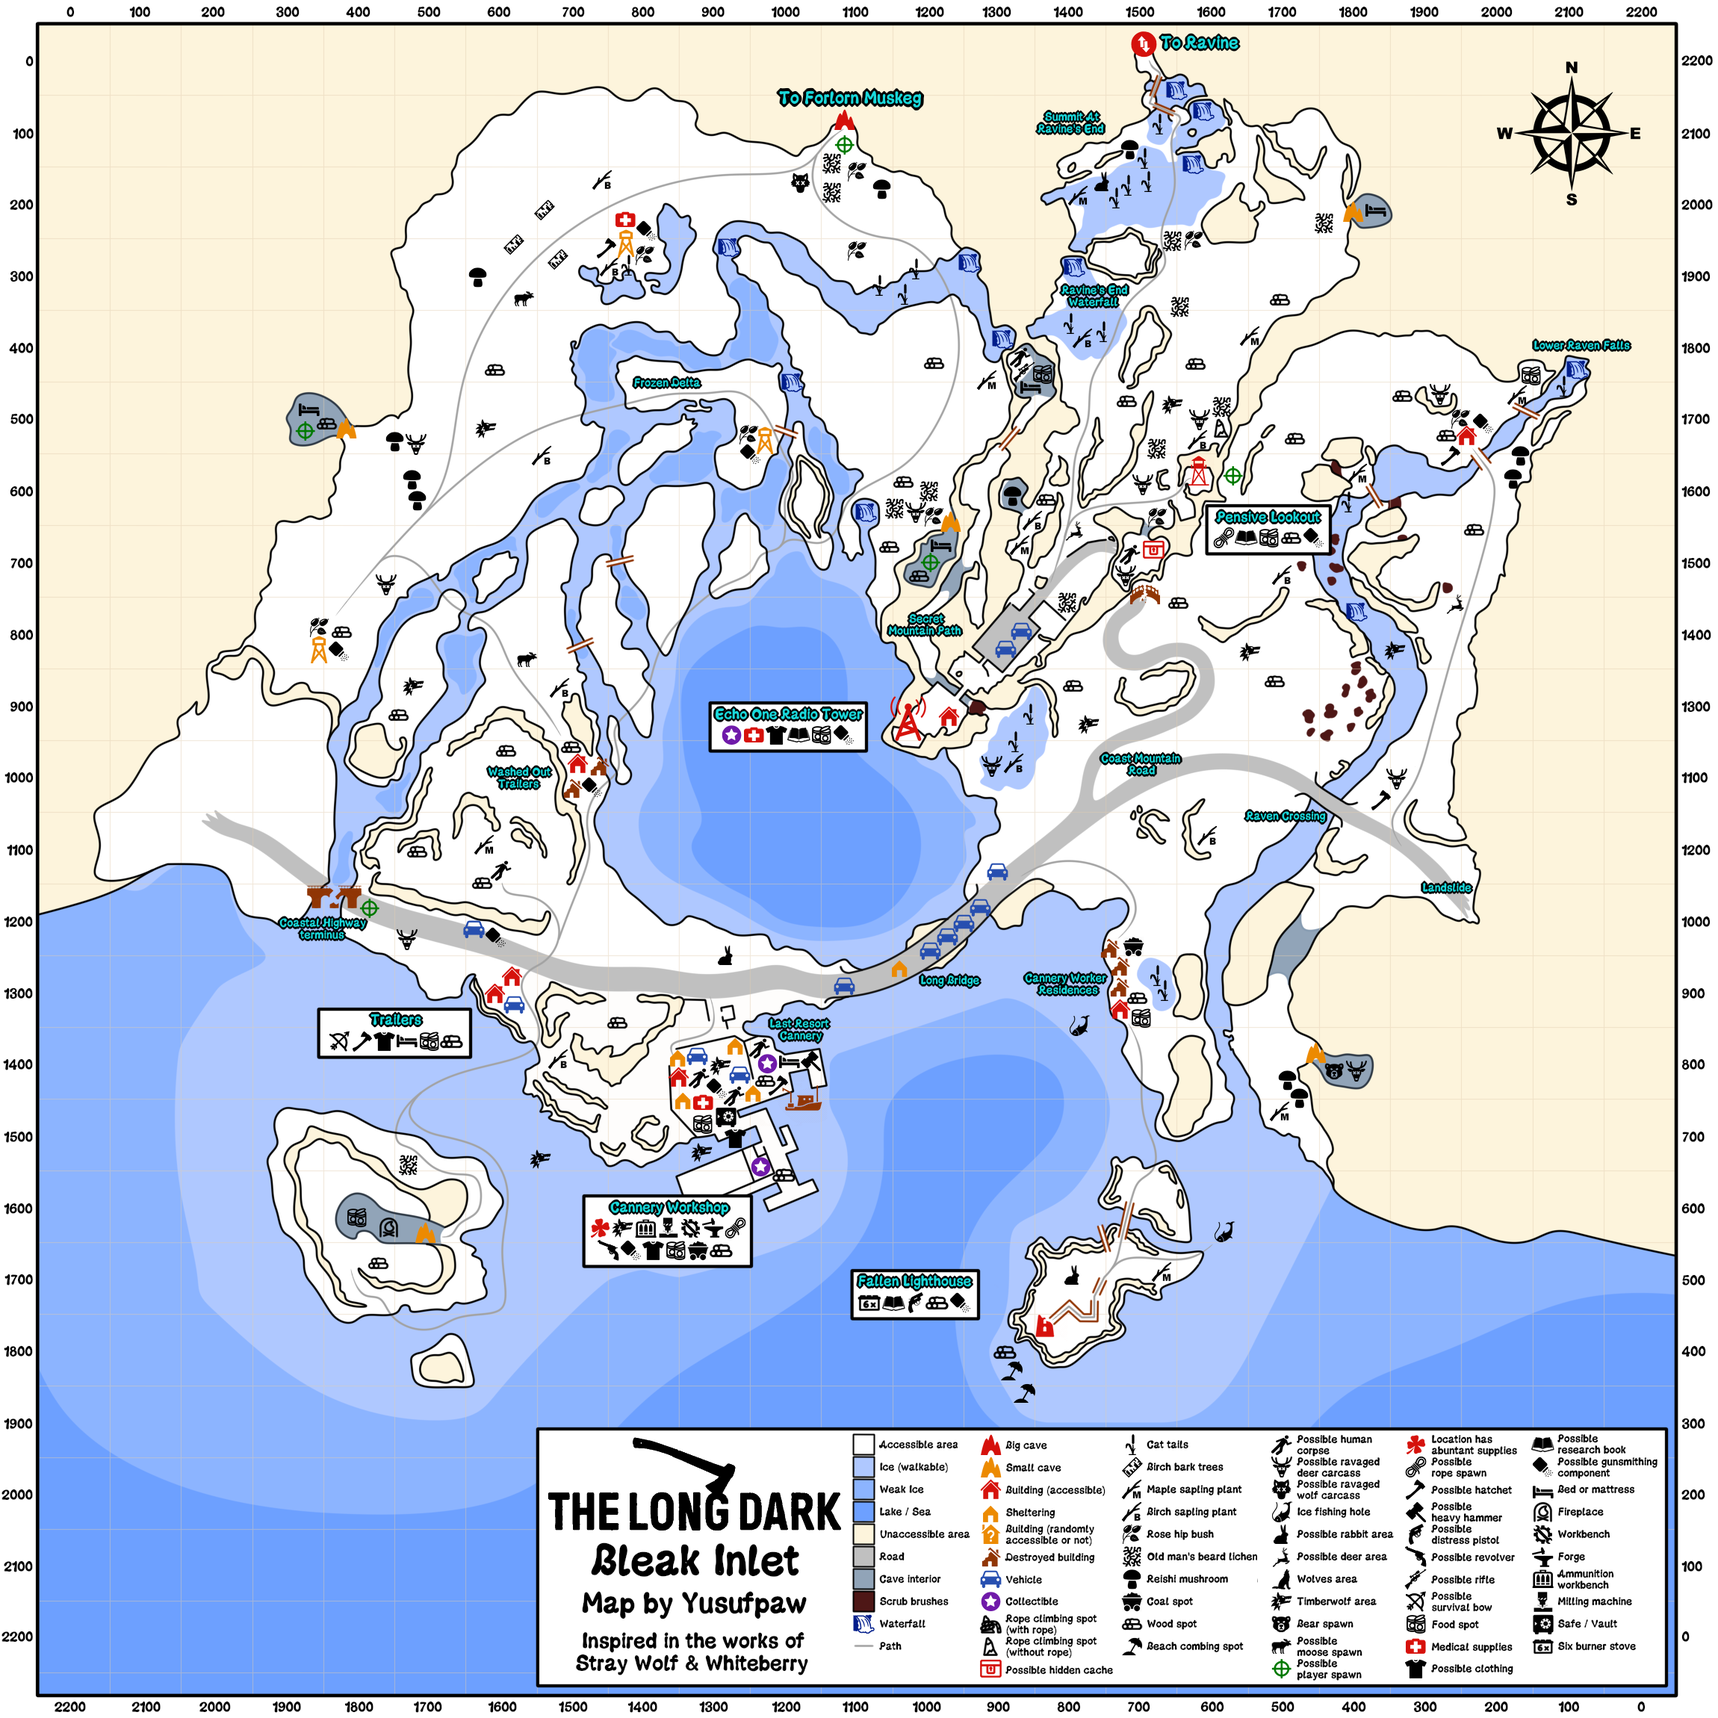
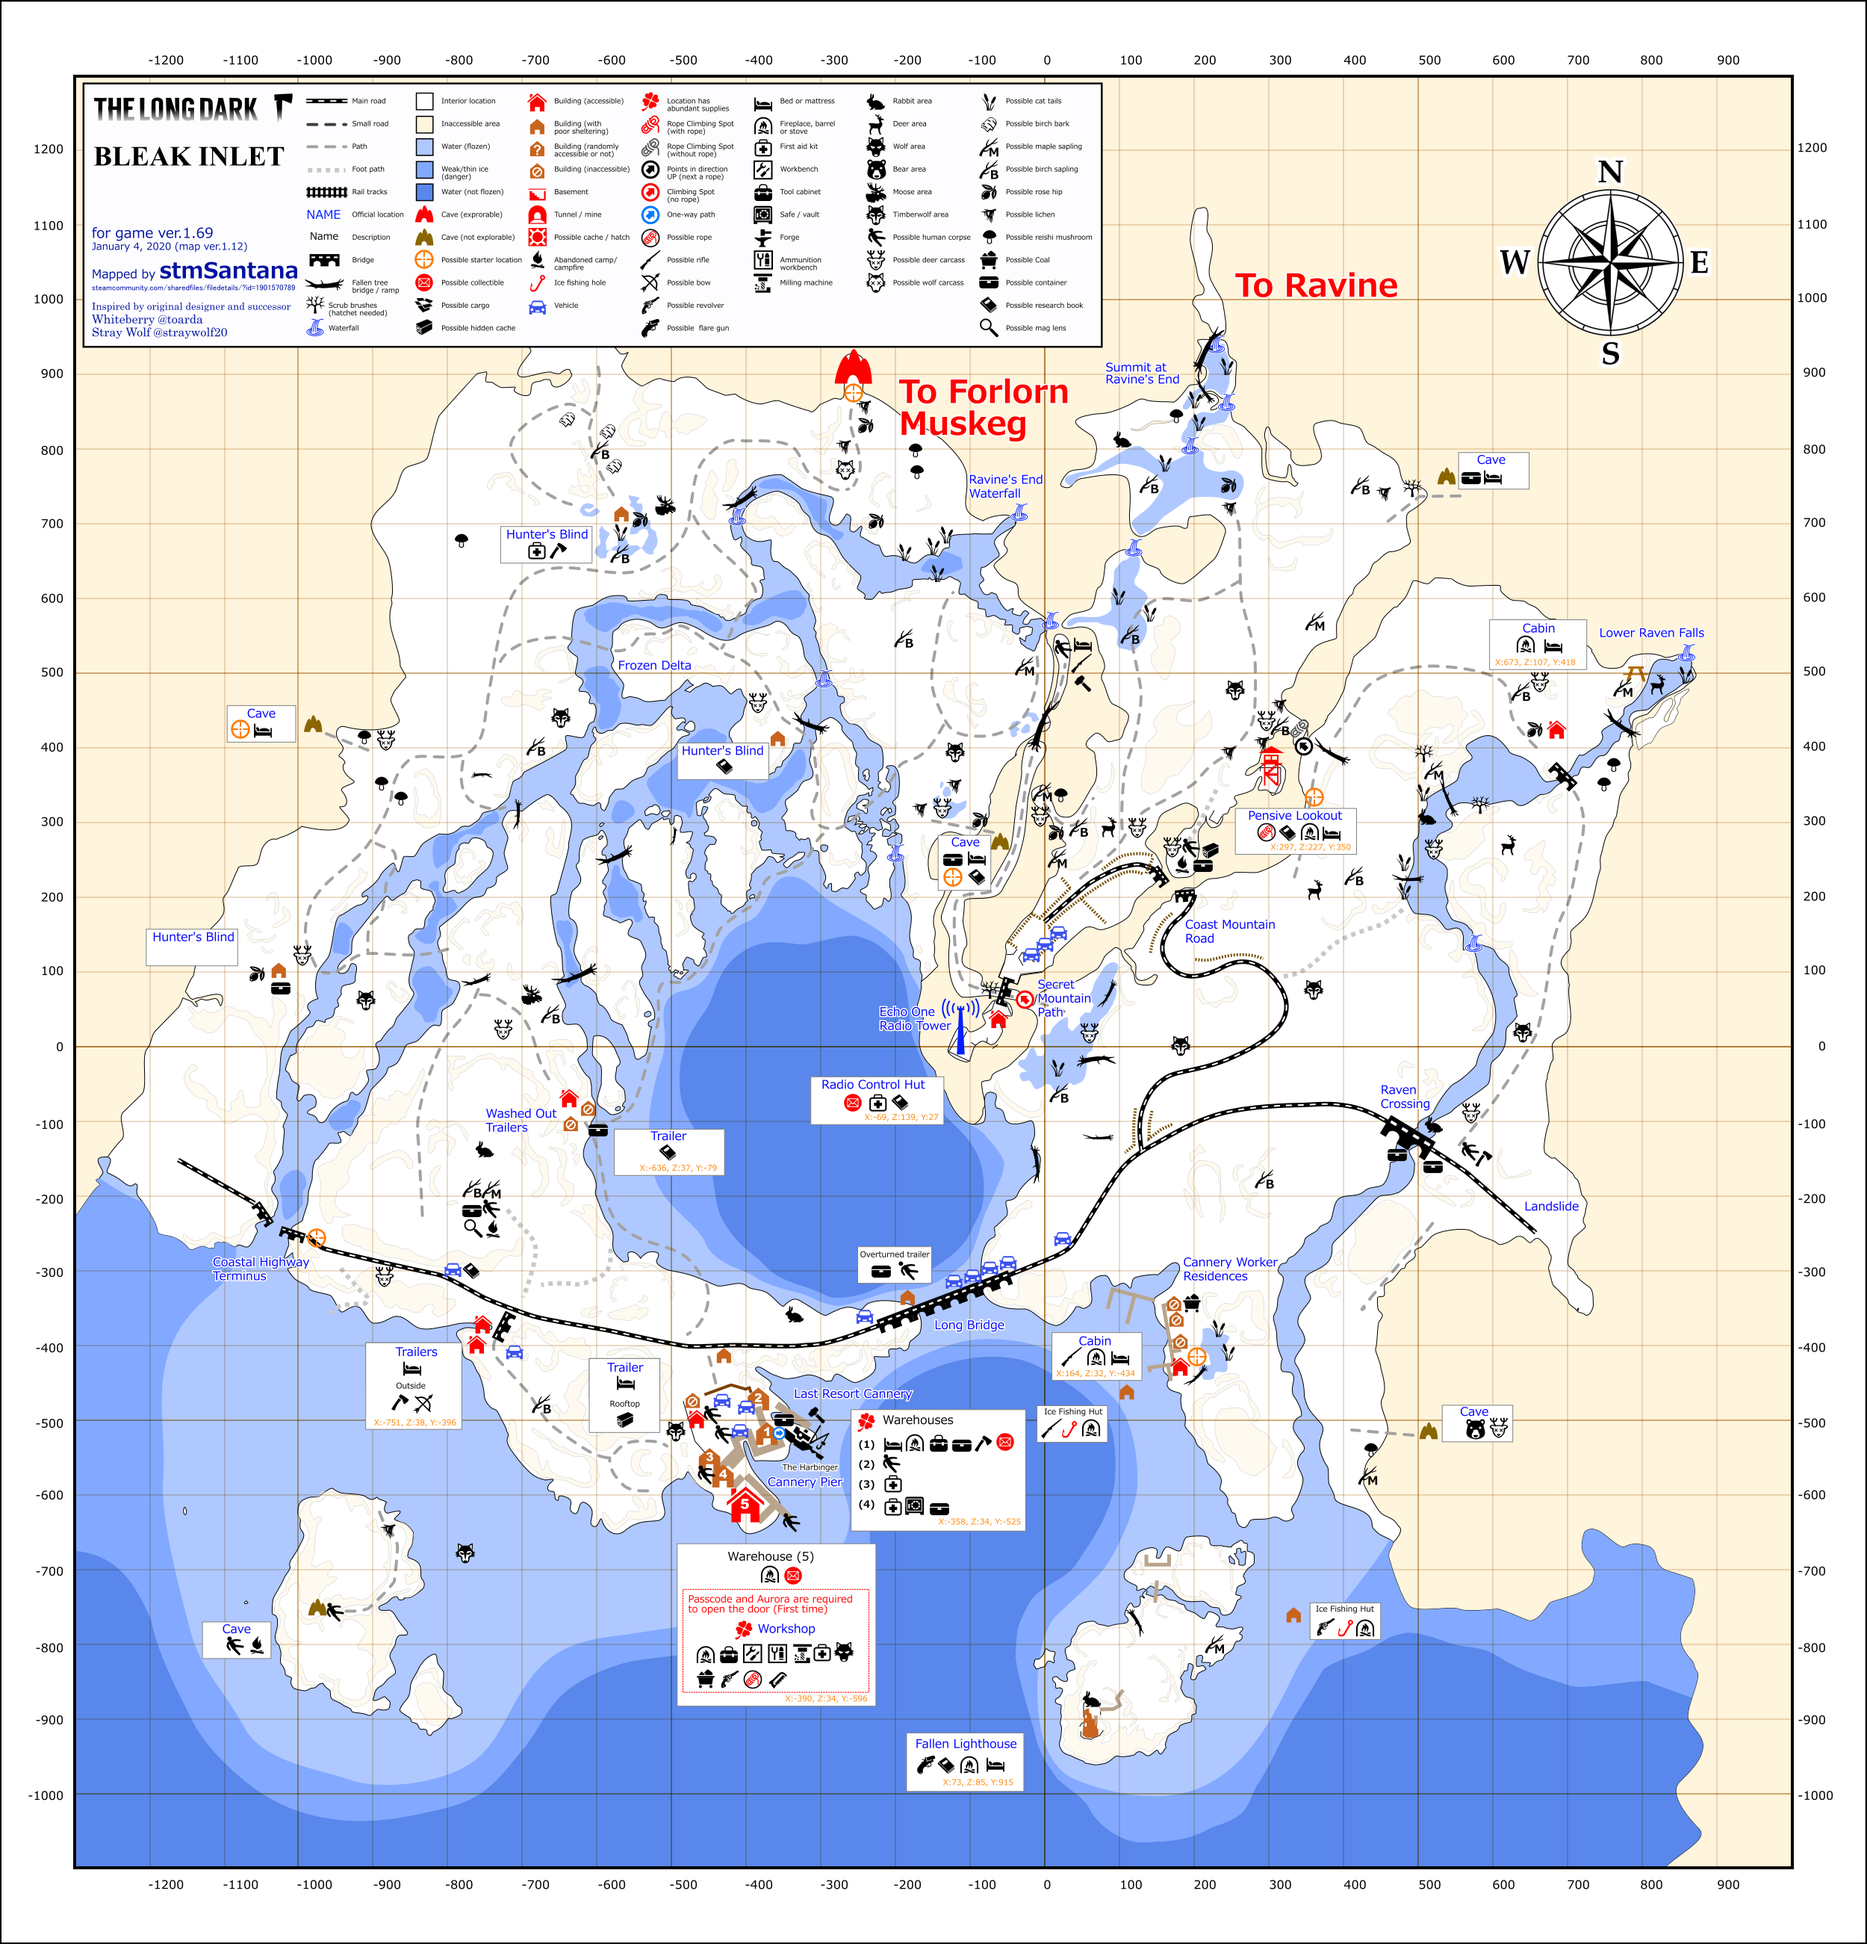
updated Bleak Inlet map

diff --git a/CHANGELOG.md b/CHANGELOG.md
@@ -1,5 +1,8 @@
 ##### 2.0 (not yet released)
 
+* updated Bleak Inlet map
+    * it will be only copied if "The Long Dark Helpers/Maps Images" folder doesn't exist yet
+
 ##### 1.2 (30/01/2020)
 
 * saved map format has been changed, all the maps will be migrated to new format on application startup
